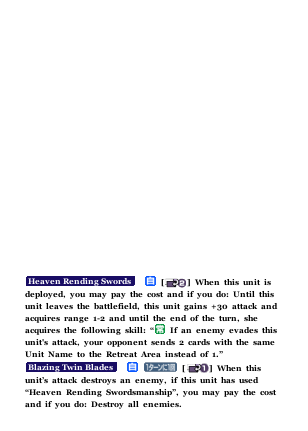
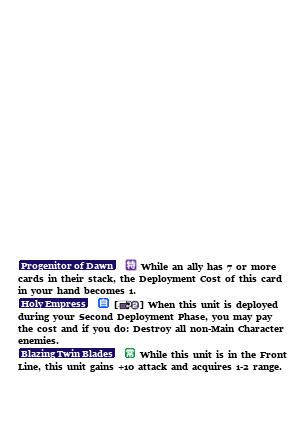
changed border to 1 px and made the skill area wider

Changed region(s): [[0.0584, 0.6032, 0.9351, 0.9652]]

diff --git a/basecreation/skillCreator.py b/basecreation/skillCreator.py
@@ -100,12 +100,12 @@ i = 0
 ### adding the skills
 # line character limit 60, pixel length is 1090
 # get rows
-fontsize = 8
+fontsize = 9
 font = ImageFont.truetype('georgiab.ttf', fontsize)
 charwid = 4
 rowheight = 12
 rowextra = 2
-rowlen = 282
+rowlen = 290
 rows = get_rows(skills, charwid, rowheight, rowextra, fontsize, attributes, font, rowlen-25)
 print("ROWS:")
 print(rows)
@@ -113,7 +113,7 @@ print(rows)
 # set up space on the card for effects
 boty = 100
 bgcx, bgcy = output.size
-skillx = 25
+skillx = 18
 skilly = bgcy - boty - (rows * rowheight) - (len(skills) * rowextra)
 skilltitle = False
 #font = ImageFont.truetype('Cousine-Regular.ttf', 40)
